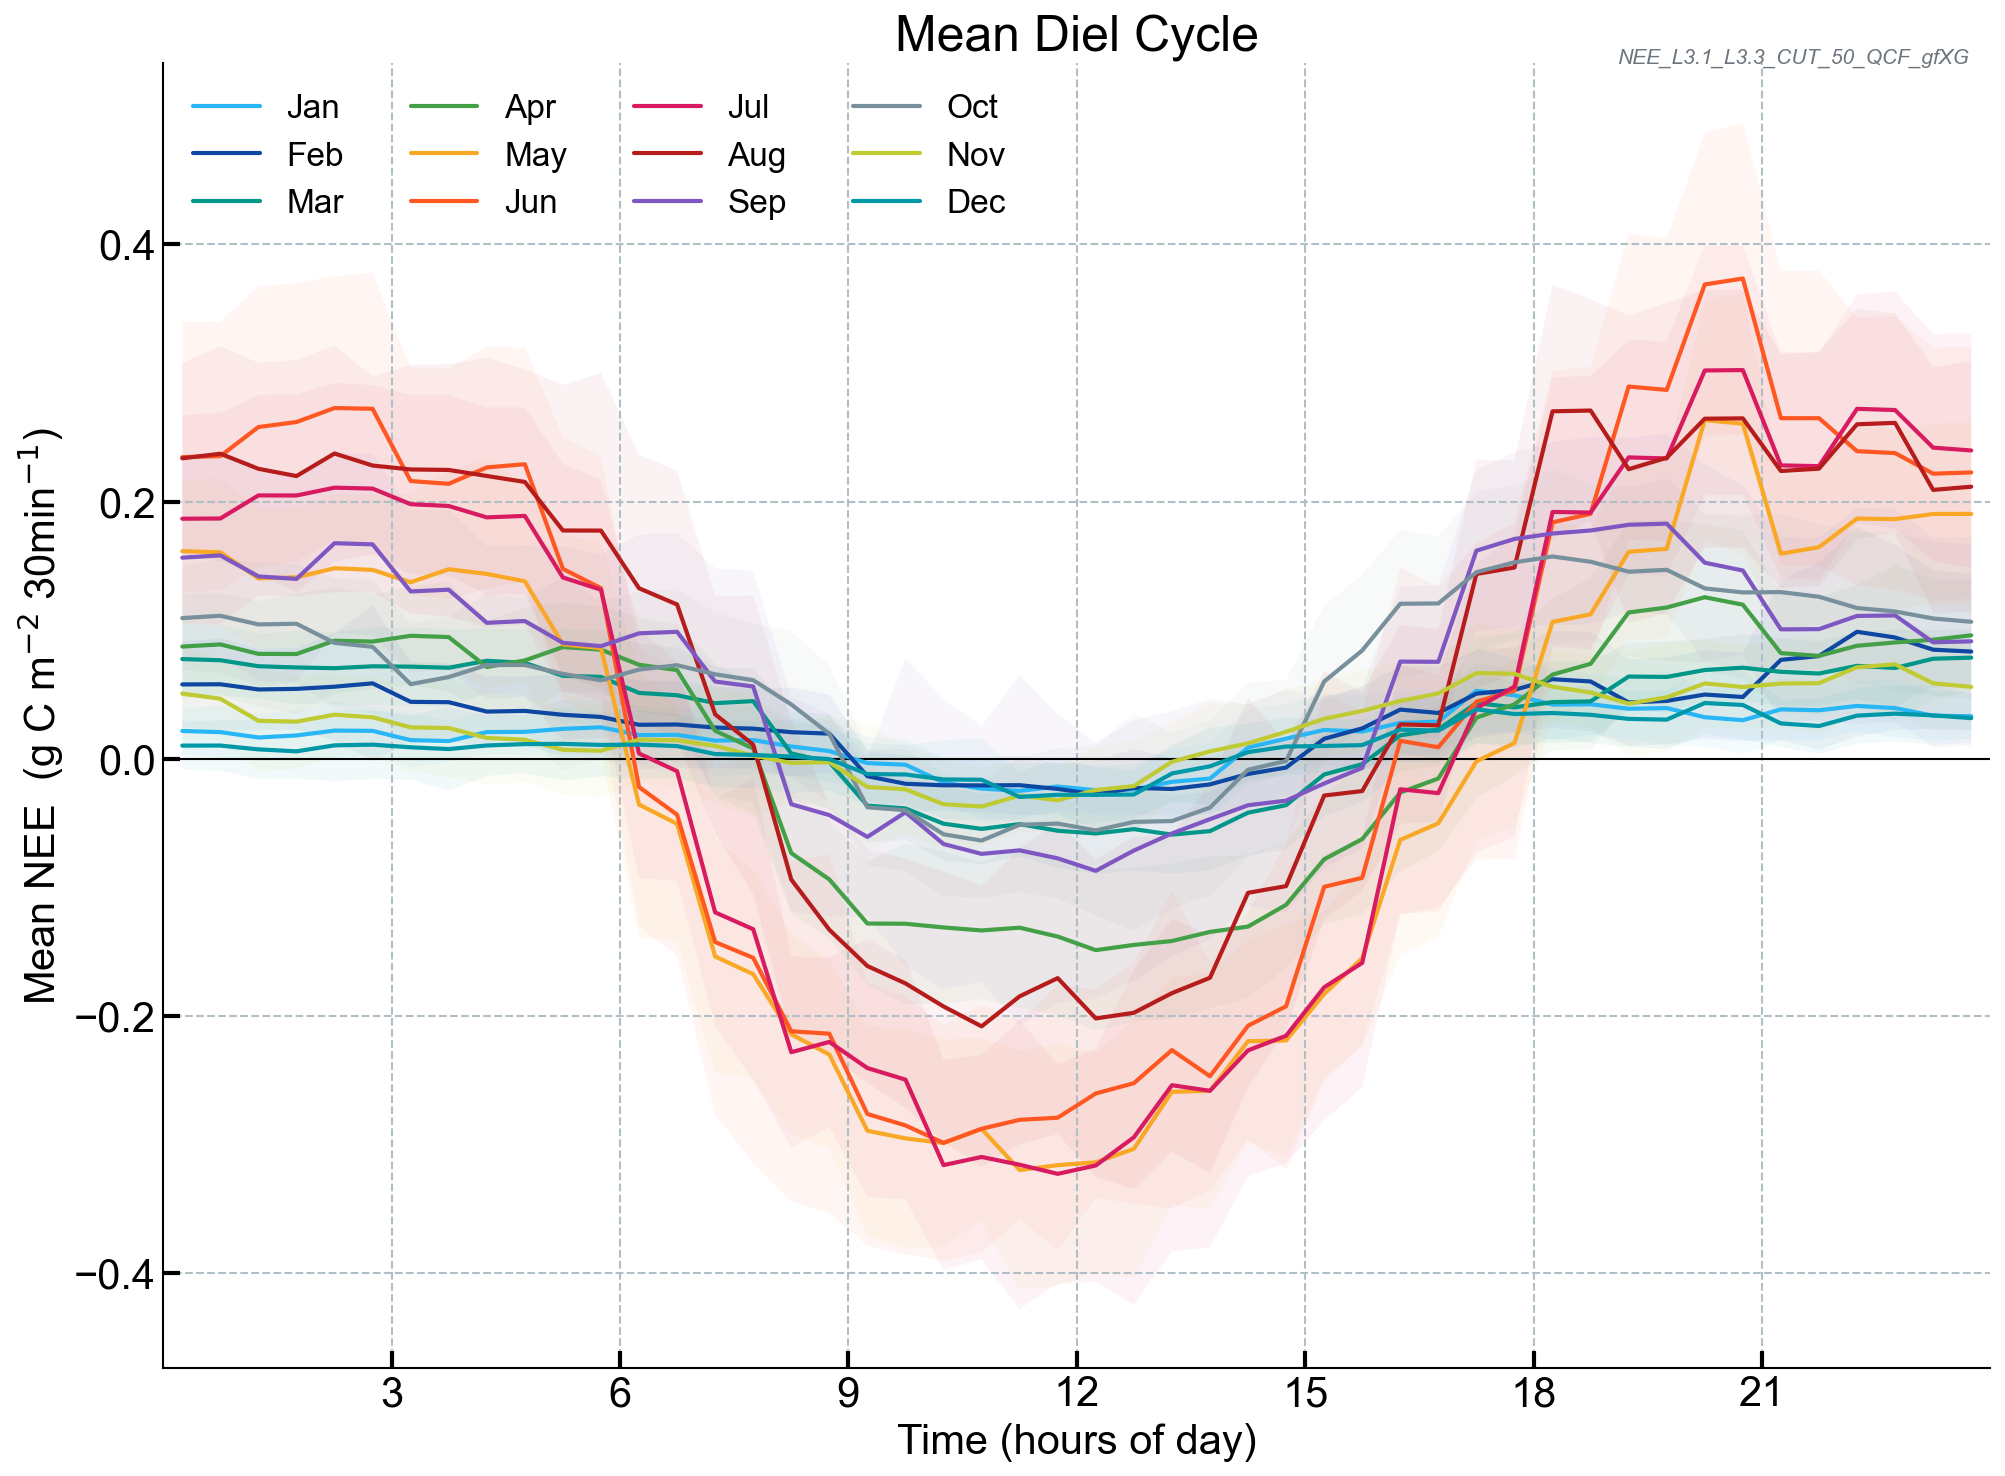
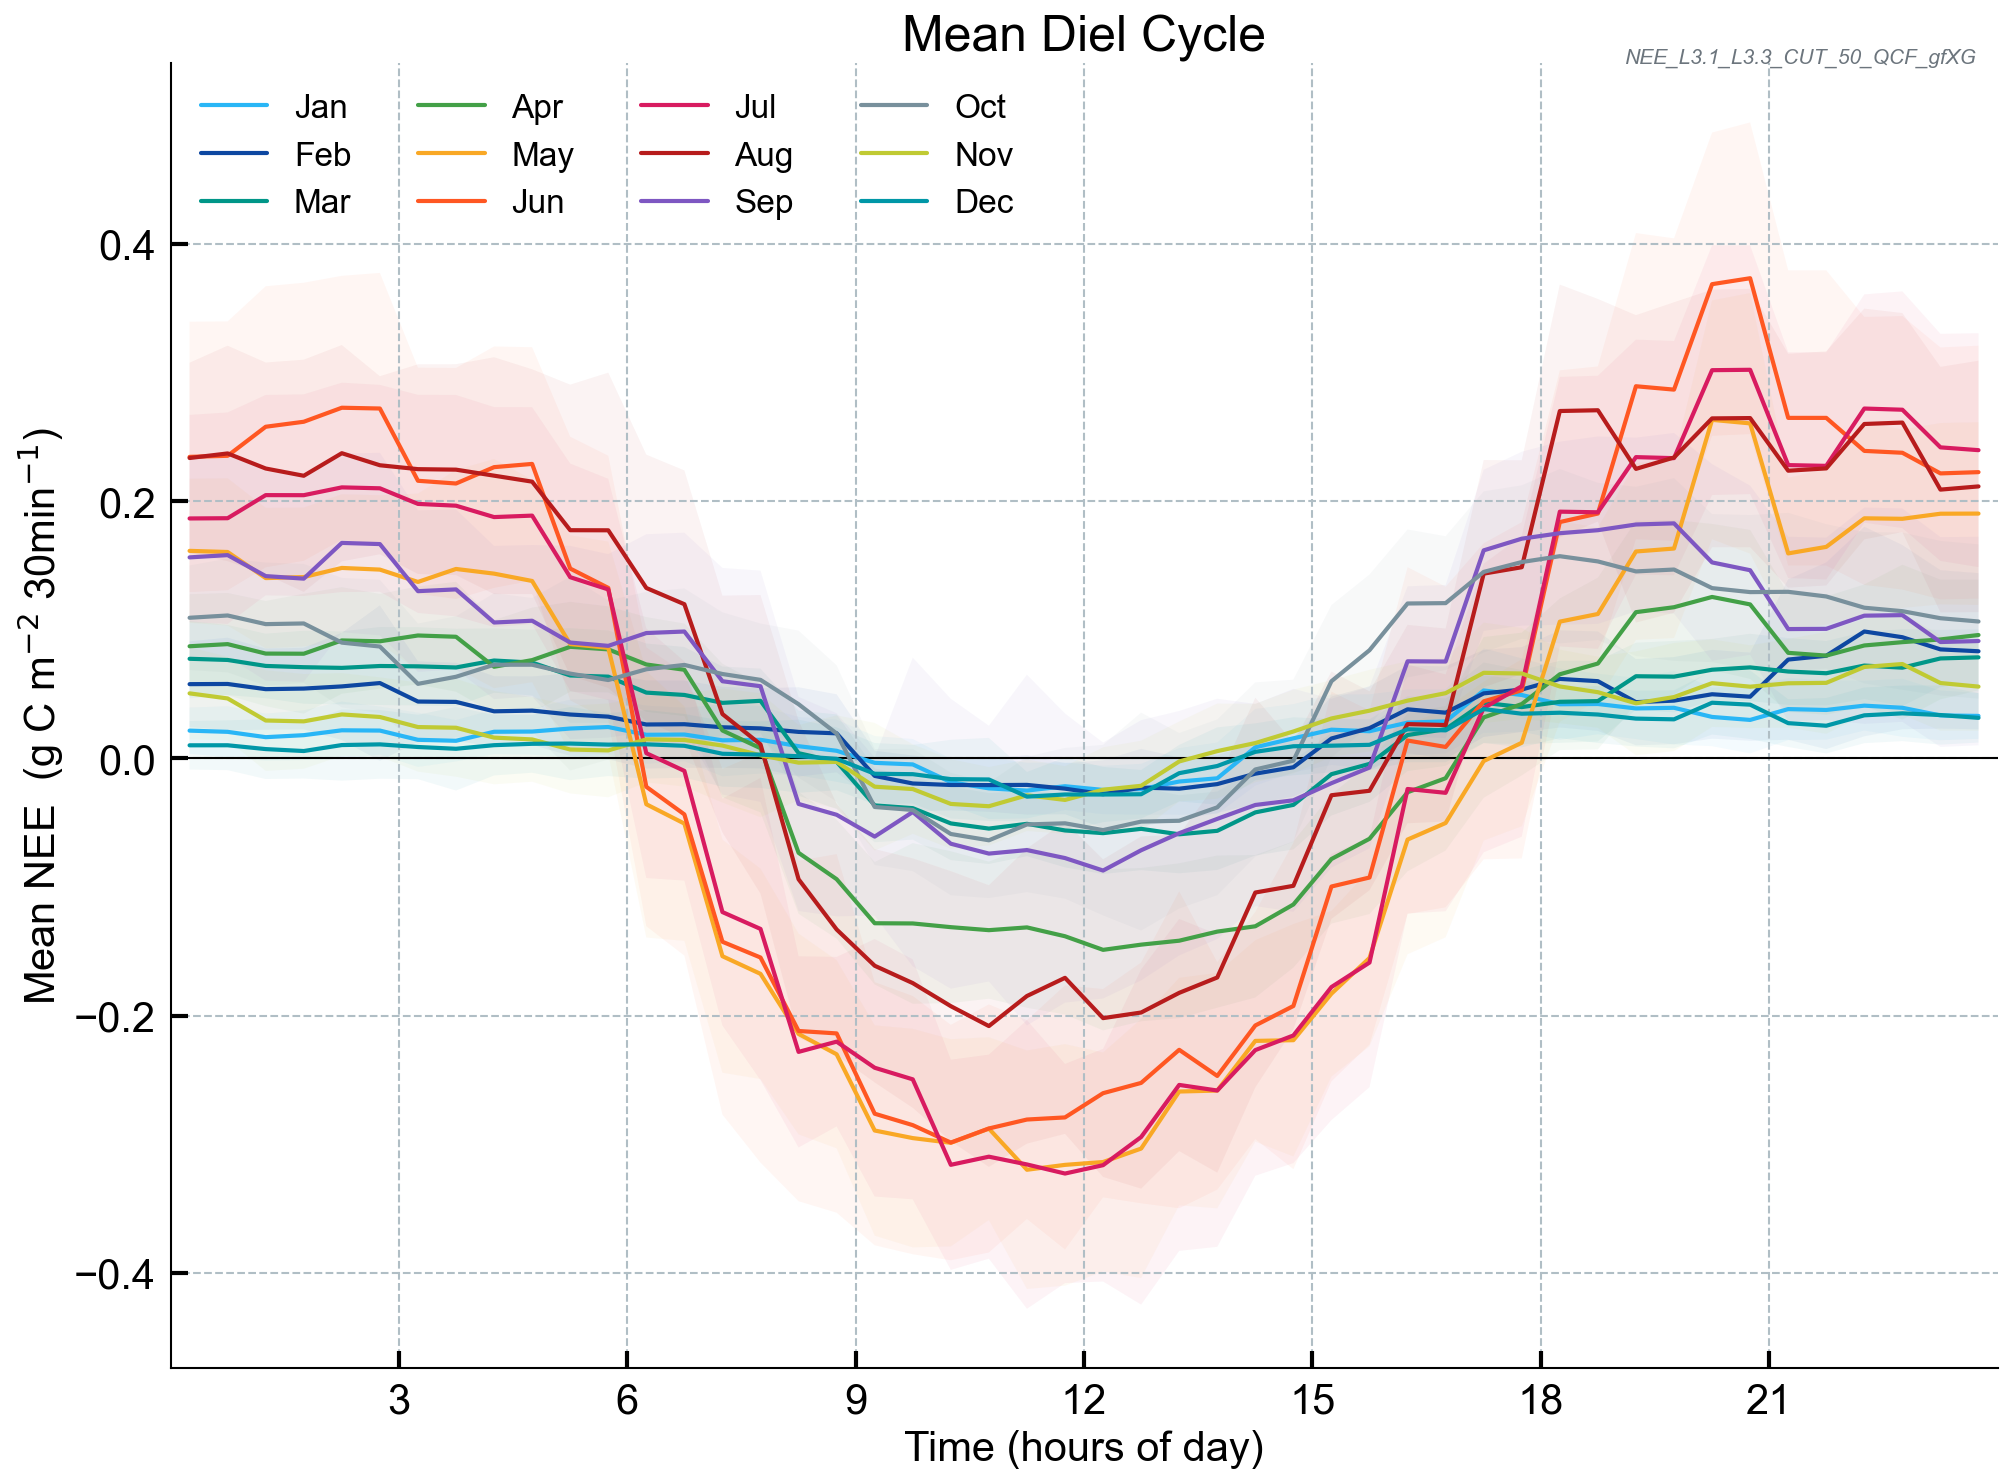
Add diel cycle plots

diff --git a/src/04_fluxprocessingchain_NEE.py b/src/04_fluxprocessingchain_NEE.py
@@ -338,7 +338,7 @@ fpc.showplot_gapfilled_heatmap()
 fpc.showplot_gapfilled_cumulative(gain=0.02161926, units=r'($\mathrm{gC\ m^{-2}}$)', per_year=True, show_reference=False)
 fpc.showplot_gapfilled_cumulative(gain=0.02161926, units=r'($\mathrm{gC\ m^{-2}}$)', per_year=False)
 # fpc.showplot_feature_ranks_per_year()
-fpc.showplot_mds_gapfilling_qualities()
+# fpc.showplot_mds_gapfilling_qualities()
 
 # Save to files
 filename = f"{script_id}_FluxProcessingChain_L4.1_{FLUXVAR}"
